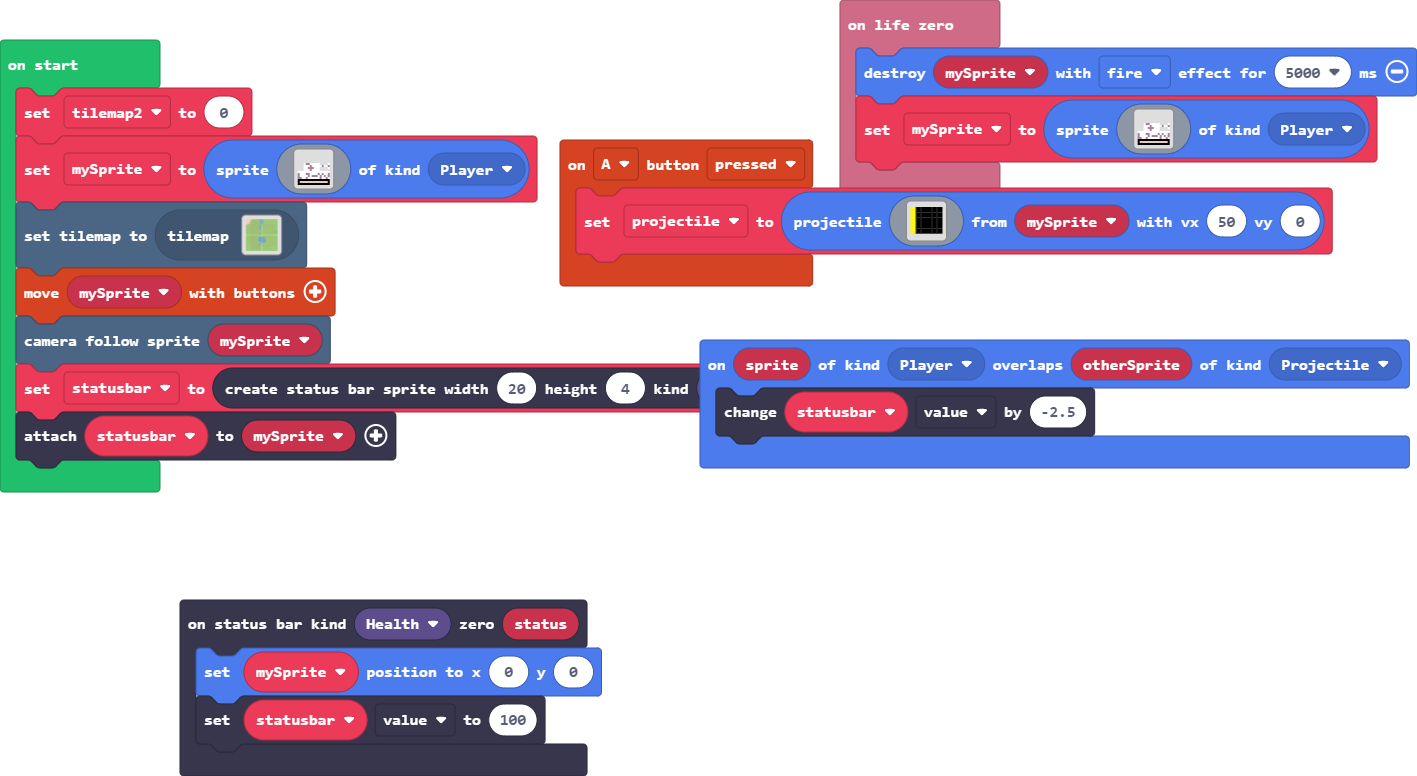
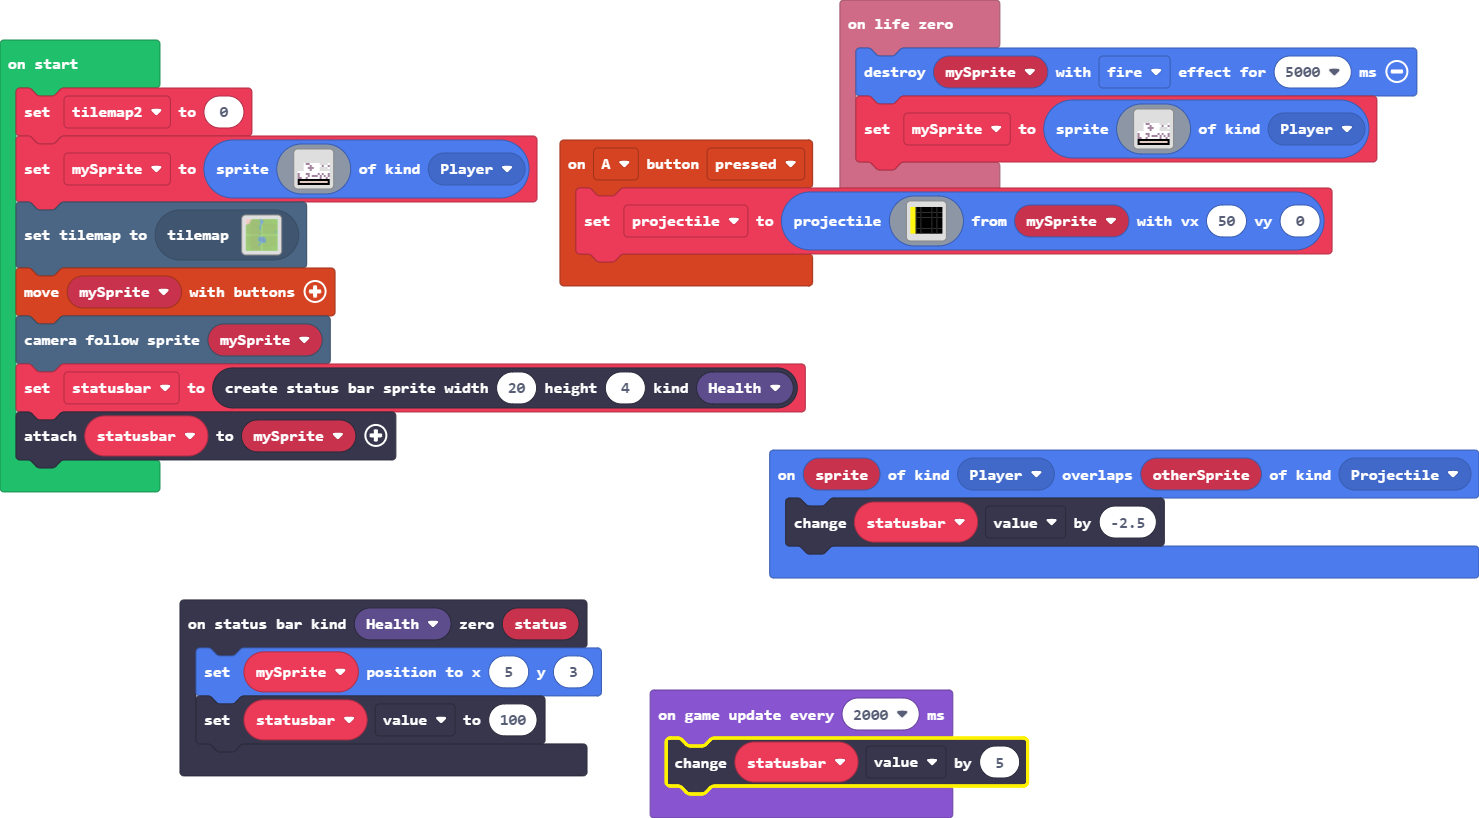
Update main.blocks, main.ts

diff --git a/main.ts b/main.ts
@@ -2,7 +2,7 @@ controller.A.onEvent(ControllerButtonEvent.Pressed, function () {
     projectile = sprites.createProjectileFromSprite(assets.image`Tank Bullet`, mySprite, 50, 0)
 })
 statusbars.onZero(StatusBarKind.Health, function (status) {
-    mySprite.setPosition(0, 0)
+    mySprite.setPosition(5, 3)
     statusbar.value = 100
 })
 sprites.onOverlap(SpriteKind.Player, SpriteKind.Projectile, function (sprite, otherSprite) {
@@ -22,3 +22,6 @@ controller.moveSprite(mySprite)
 scene.cameraFollowSprite(mySprite)
 statusbar = statusbars.create(20, 4, StatusBarKind.Health)
 statusbar.attachToSprite(mySprite)
+game.onUpdateInterval(2000, function () {
+    statusbar.value += 5
+})
